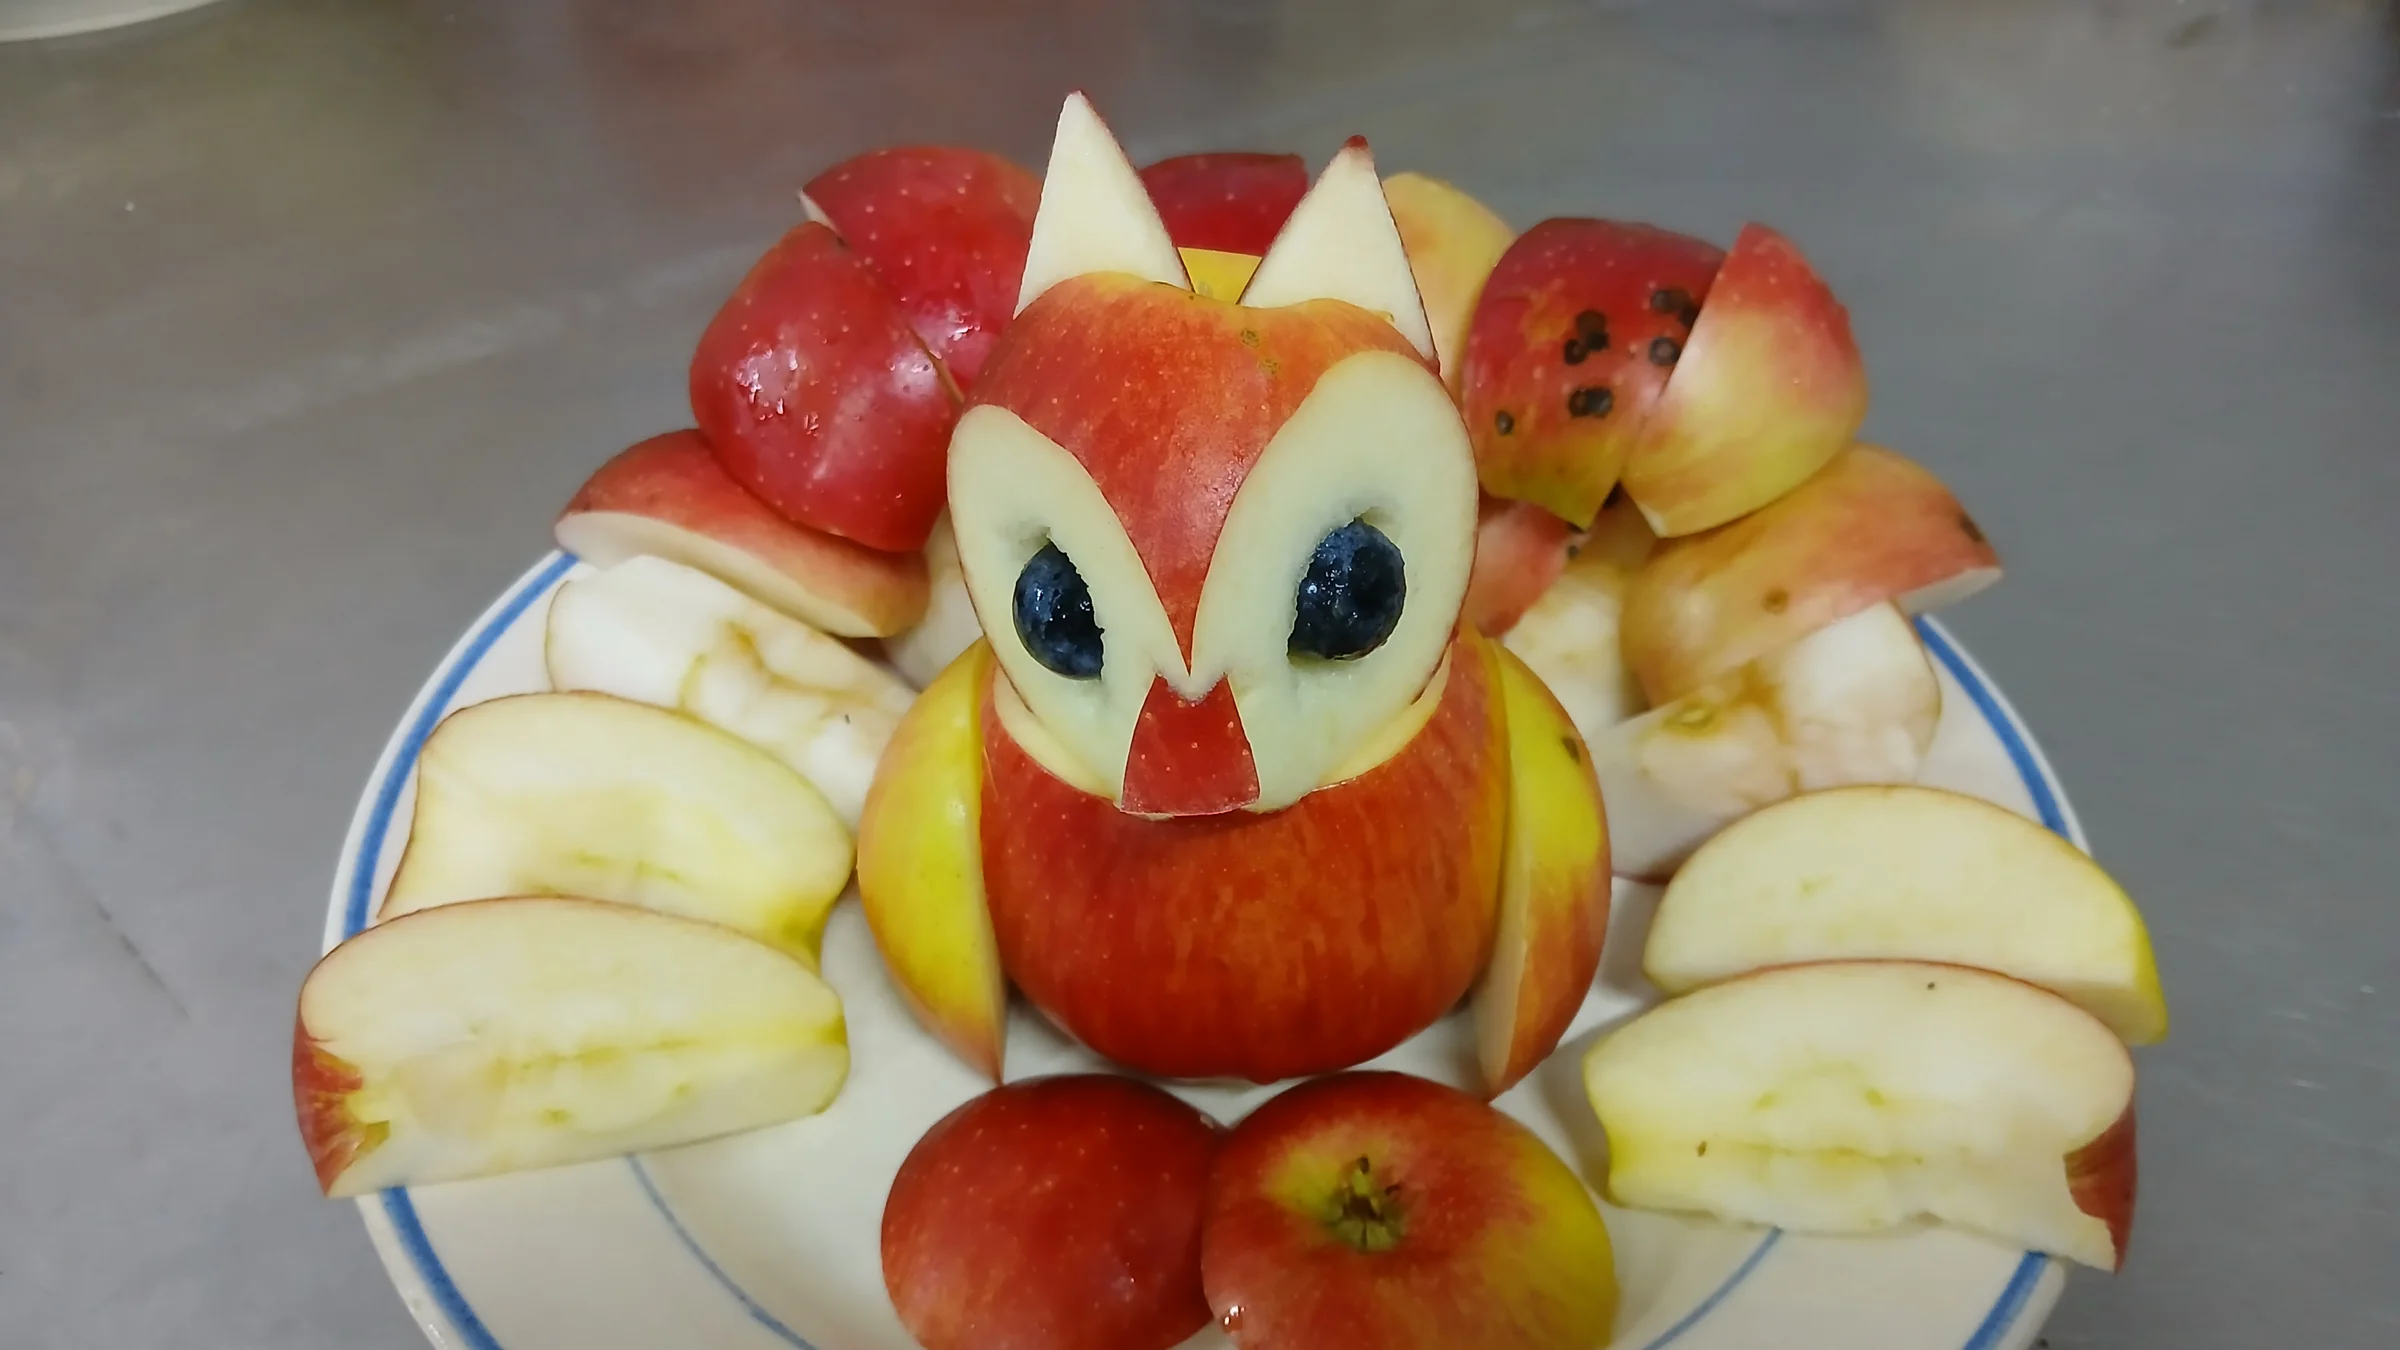
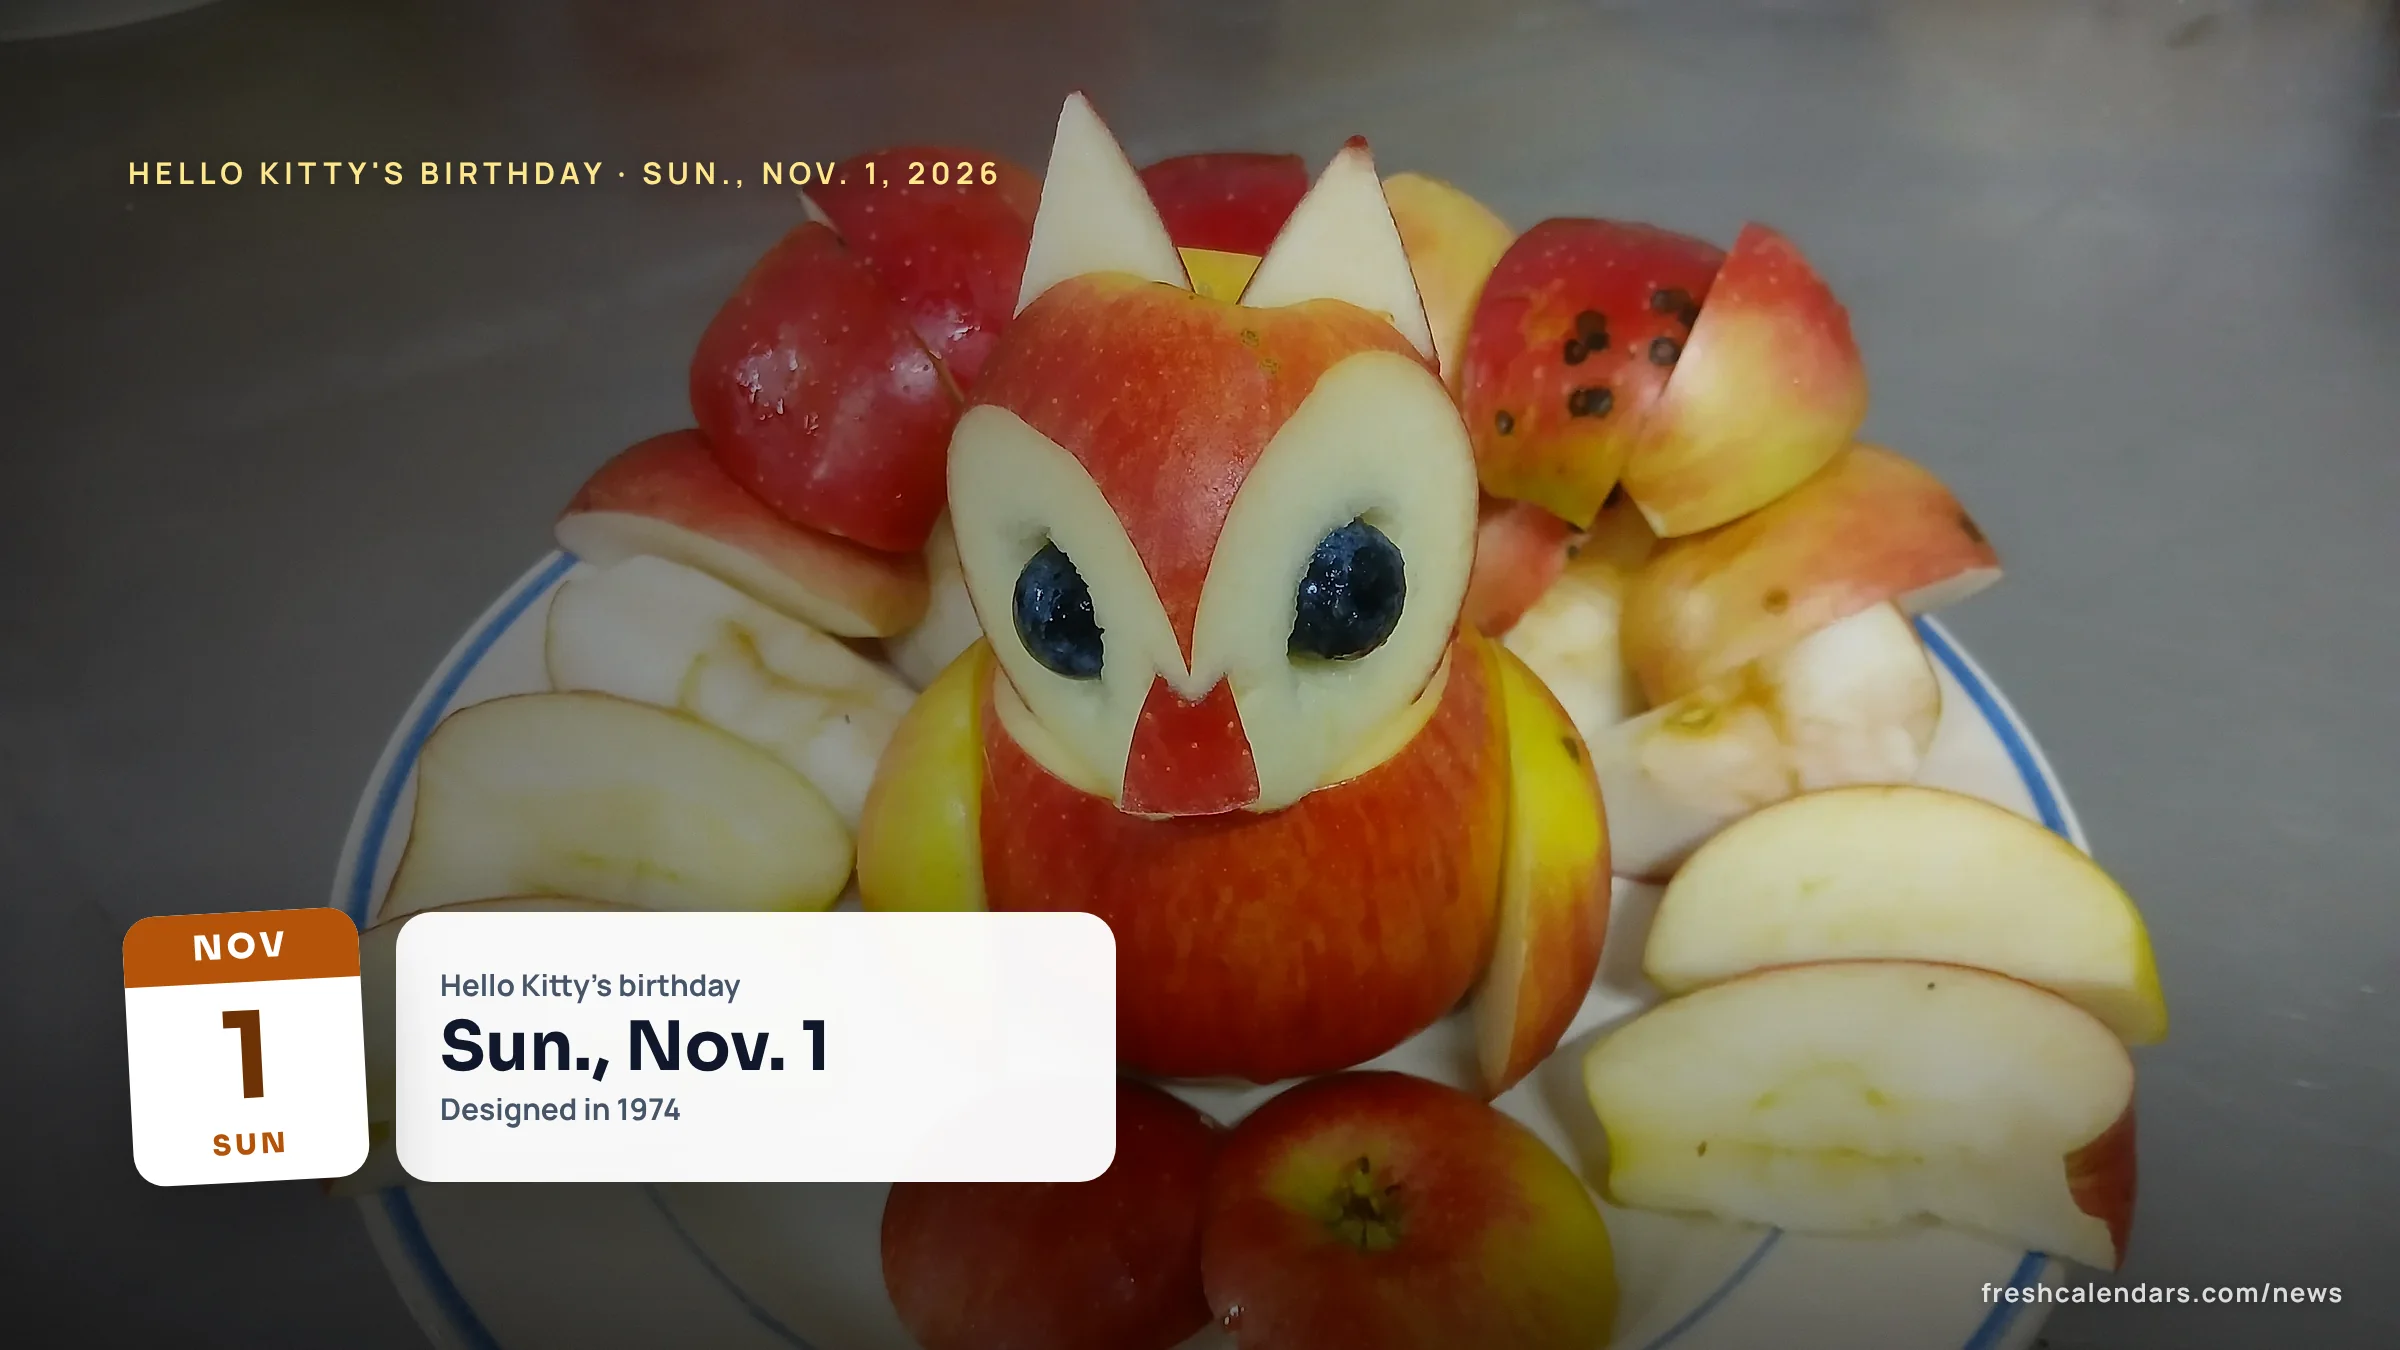
wip(news): Hello Kitty Day licensed hero and real Sanrio 2021 source URL
Claude-Session: https://claude.ai/code/session_017b62z4ne4PeZC3GnpsRxxc

diff --git a/apps/news/src/content/articles/2026/10/hello-kitty-birthday-2026-sunday-november-1-sanrio-facts.md b/apps/news/src/content/articles/2026/10/hello-kitty-birthday-2026-sunday-november-1-sanrio-facts.md
@@ -33,9 +33,16 @@ assets:
       - { when: "Sun., Nov. 1", what: "Do one kind thing for someone else", section: "Kindness" }
     note: "Source: Sanrio Company, Ltd., HELLO KITTY brand page and 2026 character ranking results (June 28, 2026); Sanrio.com, Nov. 1, 2021."
 hero:
-  src: ../../../../assets/news/hello-kitty-birthday-2026-sunday-november-1-sanrio-facts/hello-kitty-birthday-2026-sunday-november-1-sanrio-facts.jpg
-  alt: "Calendar page with Sunday, Nov. 1, 2026 circled for Hello Kitty's birthday 2026"
-  caption: "Hello Kitty's birthday falls on Sunday, Nov. 1, 2026; Sanrio says she was designed in 1974."
+  src: ../../../../assets/news/hello-kitty-birthday-2026-sunday-november-1-sanrio-facts/hello-kitty-birthday-2026-sunday-november-1-sanrio-facts.webp
+  alt: "Red apples carved into a cat face on a plate, for Hello Kitty's birthday 2026 on Nov. 1"
+  caption: "File photo of apples carved into a cat face. Sanrio says Hello Kitty stands five apples high; her birthday is Sunday, Nov. 1, 2026."
+  credit: "Photo: Микола Василечко / Wikimedia Commons, cropped, edited"
+  license:
+    name: "CC BY-SA 4.0"
+    url: "https://creativecommons.org/licenses/by-sa/4.0"
+    source: "https://commons.wikimedia.org/wiki/File:%D0%AF%D0%B1%D0%BB%D1%83%D0%BA%D0%B0_-_20251109_172927.jpg"
+    author: "Микола Василечко"
+    authorUrl: "https://commons.wikimedia.org/wiki/User:%D0%9C%D0%B8%D0%BA%D0%BE%D0%BB%D0%B0_%D0%92%D0%B0%D1%81%D0%B8%D0%BB%D0%B5%D1%87%D0%BA%D0%BE"
 downloads:
   - group: "Hello Kitty Birthday Party Checklist printables"
     title: "Hello Kitty Birthday Party Checklist, Nov. 1, 2026"
@@ -68,7 +75,7 @@ sources:
     publisher: "Sanrio Company, Ltd."
     date: "2026-06-28"
   - title: "Sanrio Celebrates Hello Kitty's Birthday with Kindness"
-    url: "https://www.sanrio.com/"
+    url: "https://www.sanrio.com/pages/sanrio-celebrates-hello-kittys-birthday-with-kindness"
     publisher: "Sanrio.com"
     date: "2021-11-01"
   - title: "Sanrio's Hello Kitty from New Line Cinema and Warner Bros. Pictures Animation will be distributed globally by Warner Bros. Pictures on July 21, 2028"
